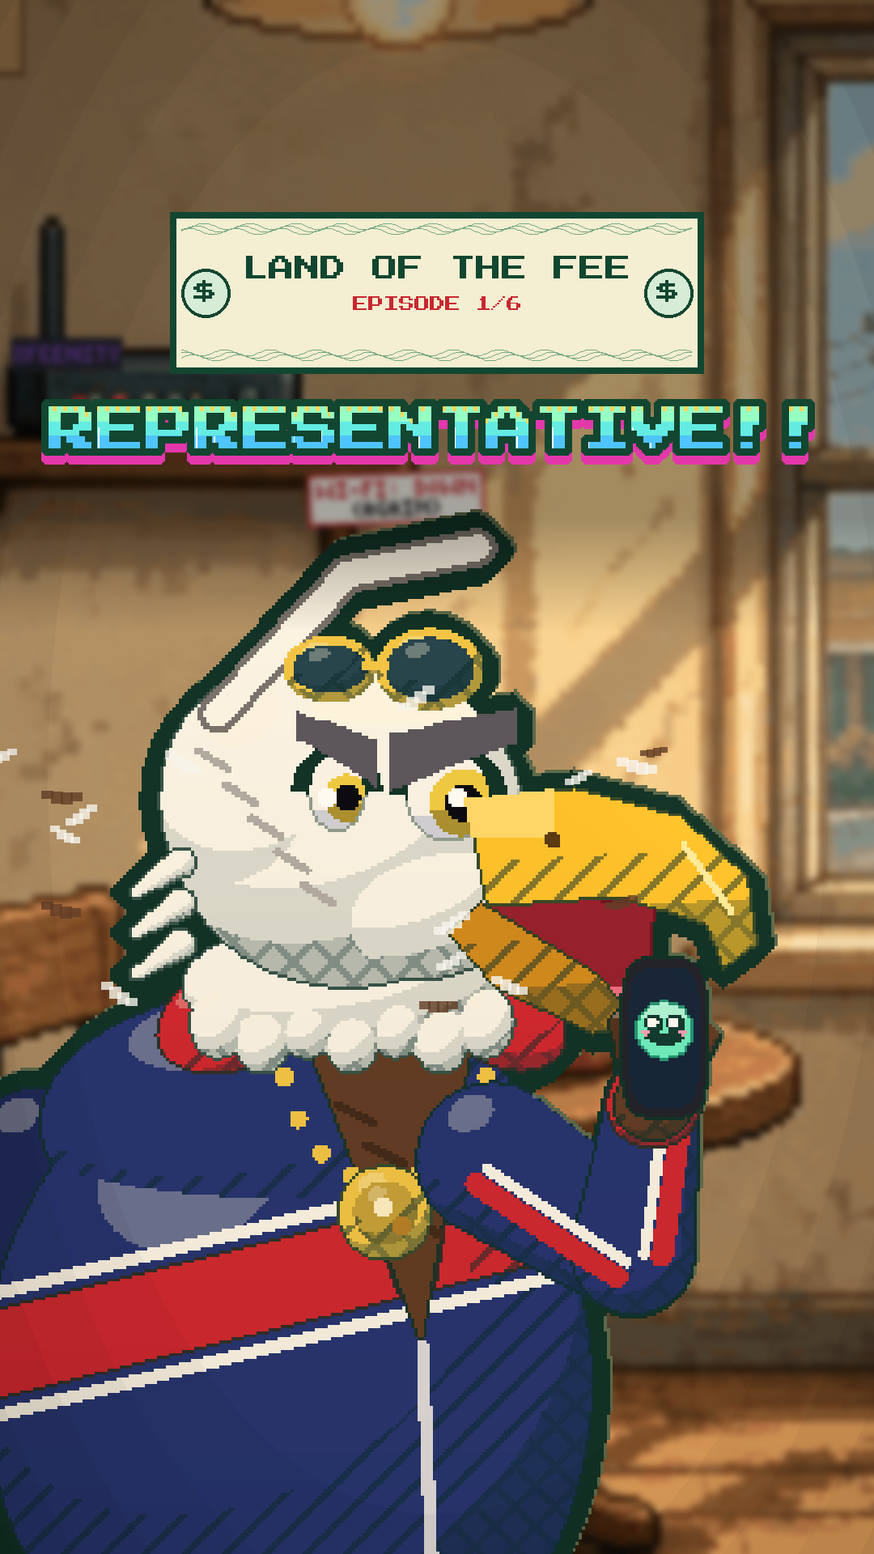
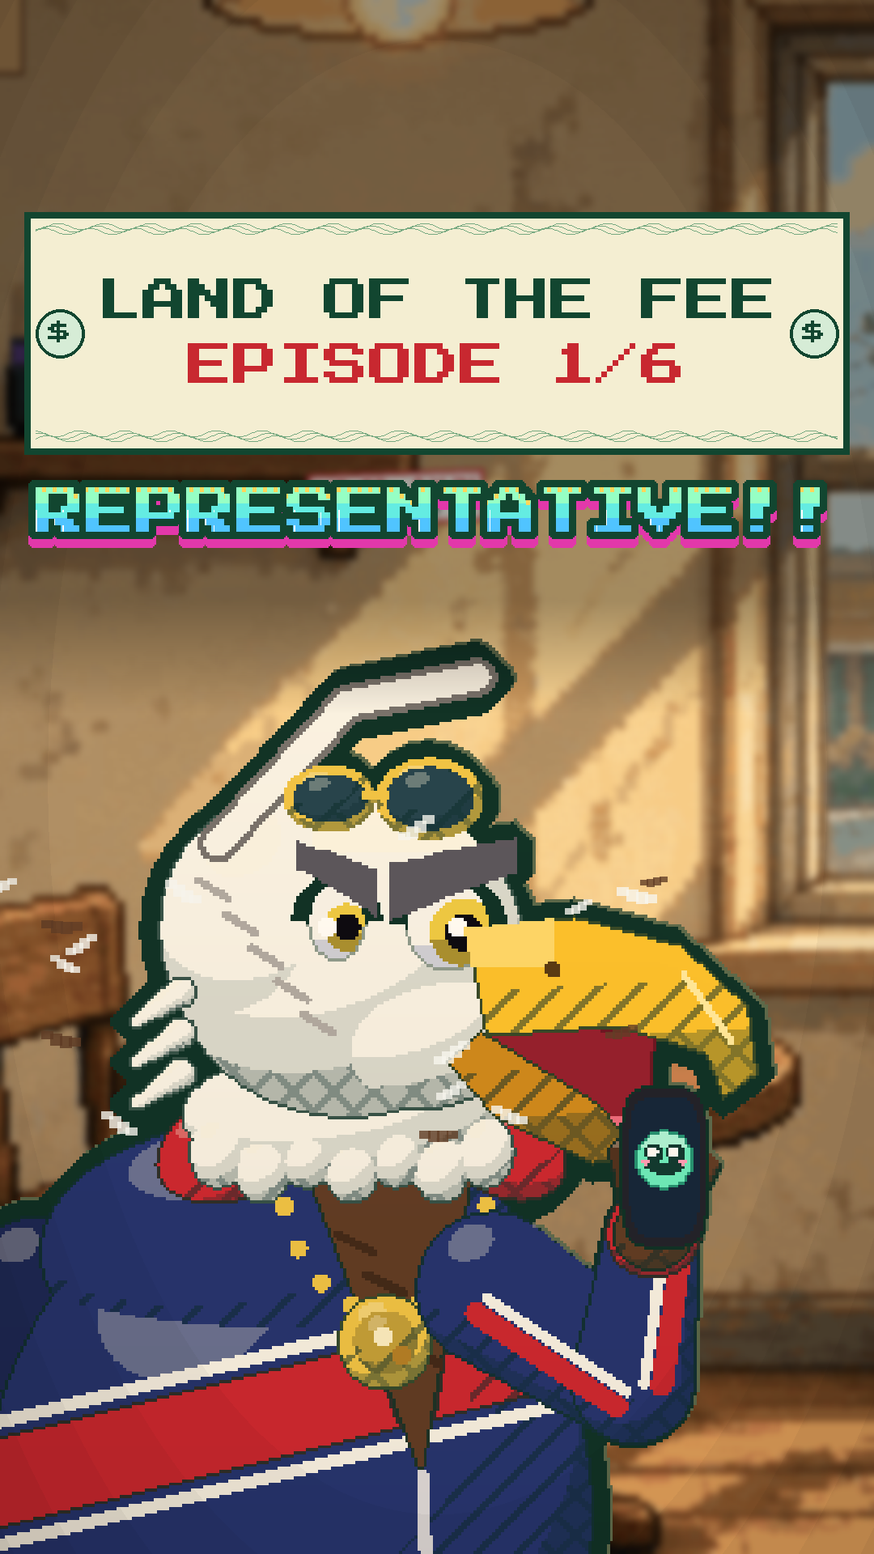
Covers: big series plate + episode number and max-size title for the channel grid (owner rule 30.10.2026); Land of the Fee covers E01-E06 redone
Claude-Session: https://claude.ai/code/session_01Ciuyys8DeTJJp4v77rfhYa

diff --git a/engine/props/feekit.py b/engine/props/feekit.py
@@ -224,7 +224,7 @@ def title_trim(a):
 
 
 # ---------------------------------------------------------------- banknote plate (series badge / covers / end card)
-def banknote(line1, line2, w=640, h=200):
+def banknote(line1, line2, w=640, h=200, big2=False):
     """a dollar bill: cream paper, a thick money-green frame with a guilloche wave band, corner seals with «$», the series name + episode"""
     img = Image.new('RGBA', (w, h), (0, 0, 0, 0)); d = ImageDraw.Draw(img); d.fontmode = '1'
     d.rectangle([0, 0, w - 1, h - 1], fill=GREEN + (255,))
@@ -240,10 +240,11 @@ def banknote(line1, line2, w=640, h=200):
         d.text((cx - fs.getlength('$') / 2, cy - 15), '$', font=fs, fill=GREEN + (255,))
     s1 = int(h * 0.24)
     while O.pfont(s1).getlength(line1) > w - 180 and s1 > 10: s1 -= 2
-    s2 = int(s1 * 0.62)
+    s2 = int(s1 * (1.0 if big2 else 0.62))
     while O.pfont(s2).getlength(line2) > w - 200 and s2 > 8: s2 -= 2
-    d.text(((w - O.pfont(s1).getlength(line1)) / 2, h * 0.27), line1, font=O.pfont(s1), fill=GREEN + (255,))
-    d.text(((w - O.pfont(s2).getlength(line2)) / 2, h * 0.27 + s1 + 18), line2, font=O.pfont(s2), fill=(200, 40, 48, 255))
+    y1 = (h - s1 - s2 - 24) / 2 if big2 else h * 0.27
+    d.text(((w - O.pfont(s1).getlength(line1)) / 2, y1), line1, font=O.pfont(s1), fill=GREEN + (255,))
+    d.text(((w - O.pfont(s2).getlength(line2)) / 2, y1 + s1 + (24 if big2 else 18)), line2, font=O.pfont(s2), fill=(200, 40, 48, 255))
     return np.array(img)
 
 
@@ -367,13 +368,25 @@ GRID = (240, 1680)
 SAFE_BOTTOM = 1520
 
 
-def cover_make(frame, title, n=1, out='cover.png', title_size=96, plate_y=None, grid_preview=True):
-    """banknote plate «LAND OF THE FEE / EPISODE N/6» at the TOP of the 3:4 grid zone (y ~262), the title right under it, a soft dark
-    band behind both; faces in the middle, nothing that matters below y 1520. Writes cover.png + cover_grid.png"""
+def _title_lines(title):
+    """one long title -> two balanced lines (split at the space nearest the middle)"""
+    if len(title) != 1 or ' ' not in title[0] or len(title[0]) <= 9: return list(title)
+    w = title[0].split(' ')
+    best = min(range(1, len(w)), key=lambda i: abs(len(' '.join(w[:i])) - len(' '.join(w[i:]))))
+    return [' '.join(w[:best]), ' '.join(w[best:])]
+
+
+def cover_make(frame, title, n=1, out='cover.png', title_size=118, plate_y=None, grid_preview=True):
+    """banknote plate «LAND OF THE FEE / EPISODE N/6» at the TOP of the 3:4 grid zone (y ~262), BIG (owner 30.10.2026: the name and
+    the episode must read in the channel grid), the title in 1-2 lines at the largest size that fits, a soft dark band behind both;
+    faces lower (head ~y 1180), nothing that matters below y 1520. Writes cover.png + cover_grid.png"""
     big = frame.copy()
-    p = banknote('LAND OF THE FEE', f'EPISODE {n}/6', w=660, h=200)
+    p = banknote('LAND OF THE FEE', f'EPISODE {n}/6', w=1020, h=300, big2=True)
     py = GRID[0] + 22 if plate_y is None else plate_y
-    t = hook_title(title, title_size)
+    lines = _title_lines(title)
+    ts = title_size
+    while max(O.pfont(ts).getlength(l) for l in lines) > OUT_W - 70 and ts > 40: ts -= 4
+    t = hook_title(lines, ts)
     ty = py + p.shape[0] - 6
     y1 = ty + t.shape[0]
     shade = np.zeros((big.shape[0], 1, 1), np.float32)

diff --git a/series/land-of-the-fee/episodes/ep05/cover.py b/series/land-of-the-fee/episodes/ep05/cover.py
@@ -12,10 +12,10 @@ APT = K.world('apartment')
 def fx_(big, v, a):
     hx, hy = aout(a, v, 'head')
     K.feathers(big, 0.45, 0.0, hx, hy - 40, n=14, seed=15)
-big, a = K.cu(C.duke, 0.3, APT, 650.0, 330.0, 1.35, 22.0, head=(400, 1000), light=K.light_apt, blur=4, extra_fx=fx_,
+big, a = K.cu(C.duke, 0.3, APT, 650.0, 330.0, 1.35, 22.0, head=(400, 1160), light=K.light_apt, blur=4, extra_fx=fx_,
               expr='roar', mouth_=1.0, flop=1.0, look=(0.9, 0.4), hand_n=(24.0, 34.0))
 tk = K.ticket_ui(0.0, 'price', price=649, w=560, h=760)
 tk = np.array(Image.fromarray(tk).resize((int(tk.shape[1] * 0.62), int(tk.shape[0] * 0.62)), Image.NEAREST))
-O.overlay(big, tk, 1080 - tk.shape[1] - 24, 1000, 1.0)
-K.cover_make(big, ['$600 NOSEBLEEDS?!'], n=5, out=str(pathlib.Path(__file__).parent / 'cover.png'), title_size=58)
+O.overlay(big, tk, 1080 - tk.shape[1] - 24, 1150, 1.0)
+K.cover_make(big, ['$600 NOSEBLEEDS?!'], n=5, out=str(pathlib.Path(__file__).parent / 'cover.png'))
 print('cover.png')

diff --git a/series/land-of-the-fee/episodes/ep06/cover.py b/series/land-of-the-fee/episodes/ep06/cover.py
@@ -10,10 +10,10 @@ GATE = K.world('gate')
 def fx_(big, v, a):
     hx, hy = aout(a, v, 'head')
     K.feathers(big, 0.45, 0.0, hx, hy - 40, n=14, seed=21)
-big, a = K.cu(C.duke, 0.3, GATE, 200.0, 360.0, 1.35, 22.0, head=(400, 1000), light=K.light_mall, blur=4, extra_fx=fx_,
+big, a = K.cu(C.duke, 0.3, GATE, 200.0, 360.0, 1.35, 22.0, head=(400, 1160), light=K.light_mall, blur=4, extra_fx=fx_,
               expr='roar', mouth_=1.0, flop=1.0, look=(0.9, 0.4), hand_n=(24.0, 34.0))
 b = K.bill_ui(['BASIC FARE   $19', 'SEAT         $89', 'CARRY-ON     $65', 'BREATHING    $5'], total='TOTAL $178', title='PENNY AIR',
               hi=1, w=400)
-O.overlay(big, b, 1080 - b.shape[1] - 24, 1230, 1.0)
-K.cover_make(big, ['$89 TO SIT?!'], n=6, out=str(pathlib.Path(__file__).parent / 'cover.png'), title_size=70)
+O.overlay(big, b, 1080 - b.shape[1] - 24, 1340, 1.0)
+K.cover_make(big, ['$89 TO SIT?!'], n=6, out=str(pathlib.Path(__file__).parent / 'cover.png'))
 print('cover.png')

diff --git a/series/land-of-the-fee/episodes/ep04/cover.py b/series/land-of-the-fee/episodes/ep04/cover.py
@@ -9,10 +9,10 @@ from props.feekit import A, wpt
 ST_ = K.world('street')
 v = view_at(ST_, 600.0, 560.0, 1.4, 180, 320)
 cs = 40.0
-duke = A(C.duke, *wpt(v, 620 - 2 * cs, 2380 - 5 * cs), cs * 0.5, t=0.3, legs=False, expr='roar', mouth_=1.0, flop=1.0, look=(-0.6, 0.6),
+duke = A(C.duke, *wpt(v, 620 - 2 * cs, 2540 - 5 * cs), cs * 0.5, t=0.3, legs=False, expr='roar', mouth_=1.0, flop=1.0, look=(-0.6, 0.6),
          hand_n=(34.0, 40.0), hand_f=(-30.0, 40.0))
-car = A(C.hatchback, *wpt(v, 620, 2380), cs, t=0.3)
+car = A(C.hatchback, *wpt(v, 620, 2540), cs, t=0.3)
 def pre(big, v_): big[:] = K.dof(big, 5)
 big = K.shot(ST_, K.light_mall, 600.0, 560.0, 1.4, acts=[duke, car], pre=pre)
-K.cover_make(big, ['$400 A MONTH?!'], n=4, out=str(pathlib.Path(__file__).parent / 'cover.png'), title_size=66)
+K.cover_make(big, ['$400 A MONTH?!'], n=4, out=str(pathlib.Path(__file__).parent / 'cover.png'))
 print('cover.png')

diff --git a/series/land-of-the-fee/episodes/ep03/cover.py b/series/land-of-the-fee/episodes/ep03/cover.py
@@ -10,9 +10,9 @@ ER = K.world('er')
 def fx_(big, v, a):
     hx, hy = aout(a, v, 'head')
     K.feathers(big, 0.45, 0.0, hx, hy - 40, n=14, seed=7)
-big, a = K.cu(C.duke, 0.3, ER, 400.0, 330.0, 1.35, 21.0, head=(470, 980), light=K.light_store, blur=4, extra_fx=fx_,
+big, a = K.cu(C.duke, 0.3, ER, 400.0, 330.0, 1.35, 21.0, head=(470, 1140), light=K.light_store, blur=4, extra_fx=fx_,
               gown=True, brace=True, expr='roar', mouth_=1.0, flop=1.0, look=(0.6, 0.9), hand_n=(22.0, 30.0), hand_f=(-16.0, 30.0))
 b = K.bill_ui(['SKIN-TO-SKIN CONTACT $39.99', 'TISSUE (USED) $12'], hi=0, w=640)
-O.overlay(big, b, 420, 1260, 1.0)
-K.cover_make(big, ['$40 FOR A HUG?!'], n=3, out=str(pathlib.Path(__file__).parent / 'cover.png'), title_size=66)
+O.overlay(big, b, 420, 1370, 1.0)
+K.cover_make(big, ['$40 FOR A HUG?!'], n=3, out=str(pathlib.Path(__file__).parent / 'cover.png'))
 print('cover.png')

diff --git a/series/land-of-the-fee/episodes/ep01/cover.py b/series/land-of-the-fee/episodes/ep01/cover.py
@@ -9,8 +9,8 @@ APT = K.world('apartment')
 def fx_(big, v, a):
     hx, hy = aout(a, v, 'head')
     K.feathers(big, 0.45, 0.0, hx, hy - 40, n=16, seed=4)
-big, a = K.cu(C.duke, 0.3, APT, 650.0, 330.0, 1.35, 23.0, head=(430, 1020), light=K.light_apt, blur=4, extra_fx=fx_,
+big, a = K.cu(C.duke, 0.3, APT, 650.0, 330.0, 1.35, 23.0, head=(430, 1180), light=K.light_apt, blur=4, extra_fx=fx_,
               expr='roar', mouth_=1.0, flop=1.0, tremble=0.0, look=(0.9, -0.5), hand_n=(21.0, 47.0),
               prop_n=lambda sp, h: C.phone(sp, h, 0.0, 0.0))
-K.cover_make(big, ['REPRESENTATIVE!!'], n=1, out=str(pathlib.Path(__file__).parent / 'cover.png'), title_size=60)
+K.cover_make(big, ['REPRESENTATIVE!!'], n=1, out=str(pathlib.Path(__file__).parent / 'cover.png'))
 print('cover.png')

diff --git a/series/land-of-the-fee/episodes/ep02/cover.py b/series/land-of-the-fee/episodes/ep02/cover.py
@@ -9,8 +9,8 @@ OFF = K.world('leasing')
 def fx_(big, v, a):
     hx, hy = aout(a, v, 'head')
     K.feathers(big, 0.45, 0.0, hx, hy - 40, n=16, seed=5)
-big, a = K.cu(C.duke, 0.3, OFF, 300.0, 380.0, 1.3, 23.0, head=(430, 1030), light=K.light_apt, blur=4, extra_fx=fx_,
+big, a = K.cu(C.duke, 0.3, OFF, 300.0, 380.0, 1.3, 23.0, head=(430, 1190), light=K.light_apt, blur=4, extra_fx=fx_,
               expr='roar', mouth_=1.0, flop=1.0, look=(0.9, -0.6), hand_n=(22.0, 44.0),
               prop_n=lambda sp, h: C.tablet(sp, h, 0.0, 0.0, screen='form'))
-K.cover_make(big, ['$95 TO APPLY?!'], n=2, out=str(pathlib.Path(__file__).parent / 'cover.png'), title_size=72)
+K.cover_make(big, ['$95 TO APPLY?!'], n=2, out=str(pathlib.Path(__file__).parent / 'cover.png'))
 print('cover.png')

diff --git a/CLAUDE.md b/CLAUDE.md
@@ -133,7 +133,7 @@
   - **У каждого сериала своя обложка:** свой шрифт/начертание, палитра, табличка; все сезоны одного сериала в одном стиле.
   - **РУ-канал и US-канал различаются в целом** (РУ тёплое жёлто-оранжевое/землистое семейство; US неоновое розово-голубое семейство), а не только сериалами между собой.
   - Пиксельный стиль, не нейрослоп: кадр обложки только кодом (задник сериала + спрайты героев, без xAI edit и нейронных лиц; правило владельца 23.10.2026), заголовок и табличка кодом. Заголовок 2–3 слова, лица и текст в зоне 3:4.
-  - **Сетка профиля TikTok / Reels** (правило владельца, 10.10.2026, все сериалы): табличка сериала **вверху** зоны 3:4 (y ≈ 260 из 1920), заголовок сразу под ней, лица ниже, под y 1520 ничего важного (там дата и просмотры). Сцену не сдвигаю размножением верхней строки (полосы) — ставлю камеру/героя ниже. Рядом с `cover.png` генерирую `cover_grid.png` (превью плитки) и смотрю его.
+  - **Сетка профиля TikTok / Reels** (правило владельца, 10.10.2026, все сериалы): табличка сериала **вверху** зоны 3:4 (y ≈ 260 из 1920), заголовок сразу под ней, лица ниже, под y 1520 ничего важного (там дата и просмотры). Сцену не сдвигаю размножением верхней строки (полосы) — ставлю камеру/героя ниже. Рядом с `cover.png` генерирую `cover_grid.png` (превью плитки) и смотрю его. **Крупно для сетки канала** (правило владельца 30.10.2026, скрин сетки YouTube Shorts: название и серия не читались): табличка сериала почти на всю ширину (≈ 1000×300), номер серии тем же крупным кеглем, что и название сериала; заголовок в 1–2 строки самым крупным шрифтом, который влезает (≈ 100–120 px); герой ниже (голова ≈ y 1150–1200). Проверка — `cover_grid.png` уменьшенной до ~270 px шириной: табличка, номер серии и заголовок читаются.
   - **Обложка длинного видео 16:9 — под максимальный CTR** (правило владельца, 12.10.2026; подробно `docs/covers.md` §«Обложка длинного видео»): одно доминирующее лицо с максимальной эмоцией (40–50 % высоты), второй герой меньше; яркий насыщенный пиксельный фон в палитре канала вместо тёмной локации; герои с толстой белой обводкой; 1–3 огромных слова, дополняющих название ролика (не повтор); правый нижний угол пуст (таймкод); проверка по миниатюре `cover_small.png` 320×180. Эталон — `series/florida-man/movie/cover.py`. Обложки Shorts не меняем.
   - **Обложка вшита в первые 0,1 с ролика (3 кадра при 30 fps)**, константа `COVER_SEC` в `engine/episode.py`, + отдельный PNG. Делать **до** финального рендера.
 

diff --git a/docs/covers.md b/docs/covers.md
@@ -43,6 +43,14 @@
 ## Сетка профиля TikTok / Reels (правило владельца, 10.10.2026)
 Сетка показывает только центральные 3:4 обложки (y 240–1680 из 1920), а внизу плитки (~y 1520–1680) лежат дата и счётчик просмотров. Поэтому: табличка сериала **вверху** зоны 3:4 (y ≈ 260), заголовок сразу под ней, сцена и лица ниже, под y 1520 ничего важного. Для «Мазутыча» это делает `engine/covergen_maz.make` (затемнение под табличкой и заголовком). Образец — обложки «Валеры и кота» (табличка «ВАЛЕРА И КОТ / СЕРИЯ N/6» сверху). Перед сдачей смотрю превью-сетку (кроп 3:4 + плашка даты).
 
+### Крупная табличка и заголовок для сетки канала (правило владельца, 30.10.2026)
+Скрин сетки YouTube Shorts: у Land of the Fee и Thanks, Randy название сериала и номер серии в плитке не читаются. С 30.10.2026 у всех сериалов:
+- табличка почти на всю ширину (≈ 1000×300 из 1080), номер серии («EPISODE N/6», «СЕРИЯ N/6») тем же крупным кеглем, что и название;
+- заголовок в 1–2 строки, самым крупным шрифтом, который влезает в ширину (≈ 100–120 px Press Start 2P), длинный — делю по пробелу ближе к середине;
+- герой ниже (голова ≈ y 1150–1200), под y 1520 по-прежнему ничего важного;
+- проверка: `cover_grid.png` уменьшенной до ~270 px шириной — табличка, номер серии и заголовок читаются без зума.
+Эталон — Land of the Fee `engine/props/feekit.py: cover_make` (`banknote(..., big2=True)`, `_title_lines`). Вшитая обложка = тот же `cover.png`: после смены обложки перерендериваю только план `hook` (`python3 epNN.py shots hook`) + `mix.py`.
+
 ## Обложка длинного видео 16:9 — максимальный CTR (правило владельца, 12.10.2026)
 
 Только для горизонтальных расширенных версий (YouTube, 1920×1080, jpg ≤ 2 МБ). Обложки Shorts не трогаем — их устраивает текущий стиль.

diff --git a/docs/brief.md b/docs/brief.md
@@ -35,7 +35,7 @@
 - Задники xAI: без людей и текста, без «heat haze», проверить на артефакты. ≈ $0,06.
 - Ресёрч коротких видео 24.10.2026 — `docs/research-shortform-2026.md`. Тест с 25.10.2026 для следующих сезонов: 30–35 с, хук без звука, «отправь…» в каждой серии, эпизодическая арка, уникальные серии, своя музыка, −14 LUFS, сравнение по вовлечённым просмотрам. Площадки только YouTube, TikTok, Instagram (VK/Rutube не используем).
 - Обложка только кодом (кадр мира + спрайты, без xAI edit / нейронных лиц) — у всех сериалов, «Валера» с S02 тоже (23.10.2026).
-- Обложка Shorts по сетке профиля: табличка вверху зоны 3:4 (y ≈ 260), заголовок под ней, ничего ниже y 1520, `cover_grid.png`. Обложка 16:9: одно огромное лицо с эмоцией, яркий фон, 1–3 слова, правый нижний угол пуст, `cover_small.png`.
+- Обложка Shorts по сетке профиля: табличка вверху зоны 3:4 (y ≈ 260), заголовок под ней, ничего ниже y 1520, `cover_grid.png`. С 30.10.2026 крупно: табличка ≈ 1000×300 с крупным «EPISODE N/6», заголовок 1–2 строки ≈ 100–120 px, голова героя ≈ y 1180; проверять плитку шириной ~270 px. Обложка 16:9: одно огромное лицо с эмоцией, яркий фон, 1–3 слова, правый нижний угол пуст, `cover_small.png`.
 
 ## Звук
 - **Голоса:** eleven_v4, теги эмоций в каждой реплике. РУ — U+0301 в словах из 2+ слогов (в субтитрах их нет); US — КАПС ударения, без многоточий. STT не запускаю. `tighten.py`.

diff --git a/docs/decisions.md b/docs/decisions.md
@@ -112,3 +112,4 @@
 - 30.10.2026 — владелец: «почему голос ИИ тихий?» (причина: `aecho=0.5` на Фи-Би резал −6 дБ + разная громкость дублей) и тест репозитория earshot для саунд-дизайна. Сделан скил `/earshot`, расширен `engine/mix.py` (VOICE_LUFS, панорама SFX, фильтры подложек, глубина duck, MASTER_EQ; старые серии звучат как раньше), E01 «Land of the Fee» переозвучен (v1 needs work → v4 launch-grade). Если владельцу зайдёт — earshot в каждой серии.
 - 30.10.2026 — владелец: звук через earshot «отлично, используем дальше» (скил `/earshot` — постоянная часть конвейера); US TikTok больше не ведём (показы только по Молдове, англоязычные ролики пролистывают), US-выкладка — YouTube + Instagram; X — в планах. Сценарий Land of the Fee одобрен, E02–E06 в производство.
 - 30.10.2026 — владелец: в файле выкладки больше не писать время и не искать оптимальное время (публикует сам по Молдове ≈ 00:00–01:00), категорию YouTube не указывать (перестал ставить, ролики и так находят аудиторию). Правило — CLAUDE.md §8 шаг 4, скил `/publish`.
+- 30.10.2026 — владелец (скрин сетки Shorts): первый кадр-обложку делать крупнее, чтобы в сетке читались название и серия. Правило для всех сериалов — CLAUDE.md §5, `docs/covers.md`; у Land of the Fee обложки всех 6 серий переделаны и перевшиты.
